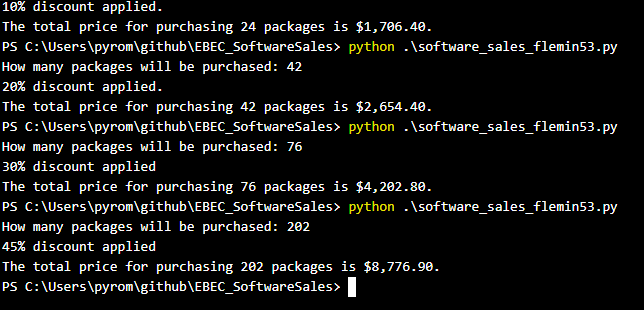
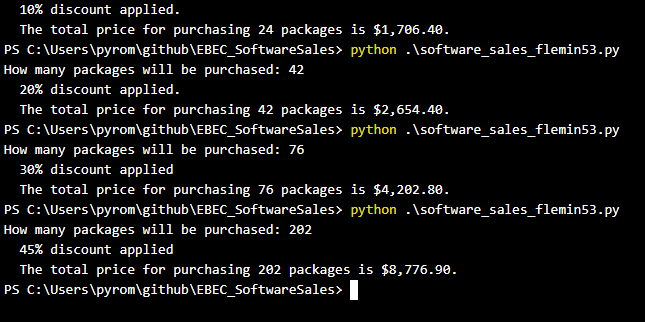
-Fixed some spaces -updated screenshot

Changed region(s): [[0.0, 0.0, 0.9627, 0.9581]]

diff --git a/software_sales_flemin53.py b/software_sales_flemin53.py
@@ -29,31 +29,31 @@ Academic Integrity Statement:
 
 def main():
 
-    packages = int(input('How many packages will be purchased: '))
-    price = 79.0
+    packages = int(input('How many packages will be purchased: ')) #Collect intended quantity of purchased packages from user
+    price = 79.0 #baseline price, given by assignment
 
-    if packages >= 0:
-        if packages <= 4:
-            print('No Discount Applied.')
-        elif packages <= 24:
-            print ('10% discount applied.')
+    if packages >= 0: #Is it a positive number?
+        if packages <= 4: #Are you buying 4 or less packages?
+            print('  No discount applied.')
+        elif packages <= 24: #24 or less?
+            print ('  10% discount applied.')
             price = price * .9
-        elif packages <= 49:
-            print ('20% discount applied.')
+        elif packages <= 49: #49 or less?
+            print ('  20% discount applied.')
             price = price *.8
-        elif packages <= 99:
-            print ('30% discount applied')
+        elif packages <= 99: #99 or less?
+            print ('  30% discount applied')
             price = price * .7
-        else:
-            print ('45% discount applied')
+        else: #more than 99?
+            print ('  45% discount applied')
             price = price * .55
 
         float(packages)
         total = price * packages
-        print(f'The total price for purchasing {packages:,} packages is ${total:,.2f}.')
+        print(f'  The total price for purchasing {packages:,} packages is ${total:,.2f}.')
 
-    else:
-        print("Invalid Input!")
+    else: #negative number?
+        print("  Invalid Input!")
 
 
 
